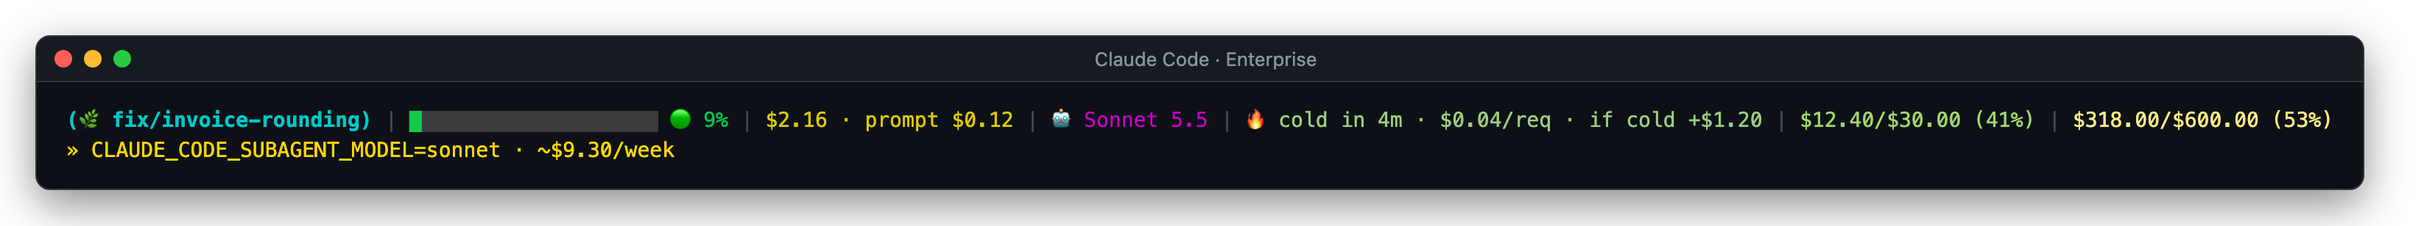
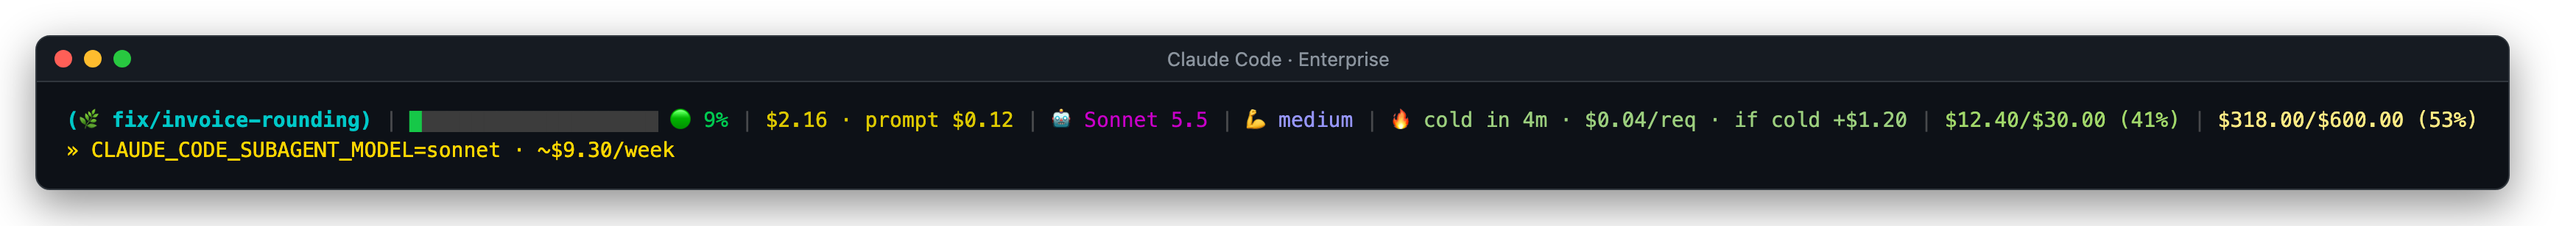
docs(readme): settings screenshot; effort in the statusline shots

diff --git a/README.md b/README.md
@@ -48,6 +48,14 @@ For Team / Enterprise. Mark holidays and days off, and the daily max
 re-splits. Look back at any day, open where its $ went (`d`), or correct it
 (`u`).
 
+## `cc-spend settings`: your statusline, your way
+
+![cc-spend settings: pick parts by number, place them on a grid, live preview](https://raw.githubusercontent.com/gagle/cc-spend/main/media/settings.png)
+
+Pick which parts show and in what order: type a part's number into the
+grid, one grid row per statusline line, and watch the preview change.
+`r` resets to the default, `Enter` saves.
+
 ## Spend less, and prove it
 
 1. **See.** The statusline shows the cost as you work.
